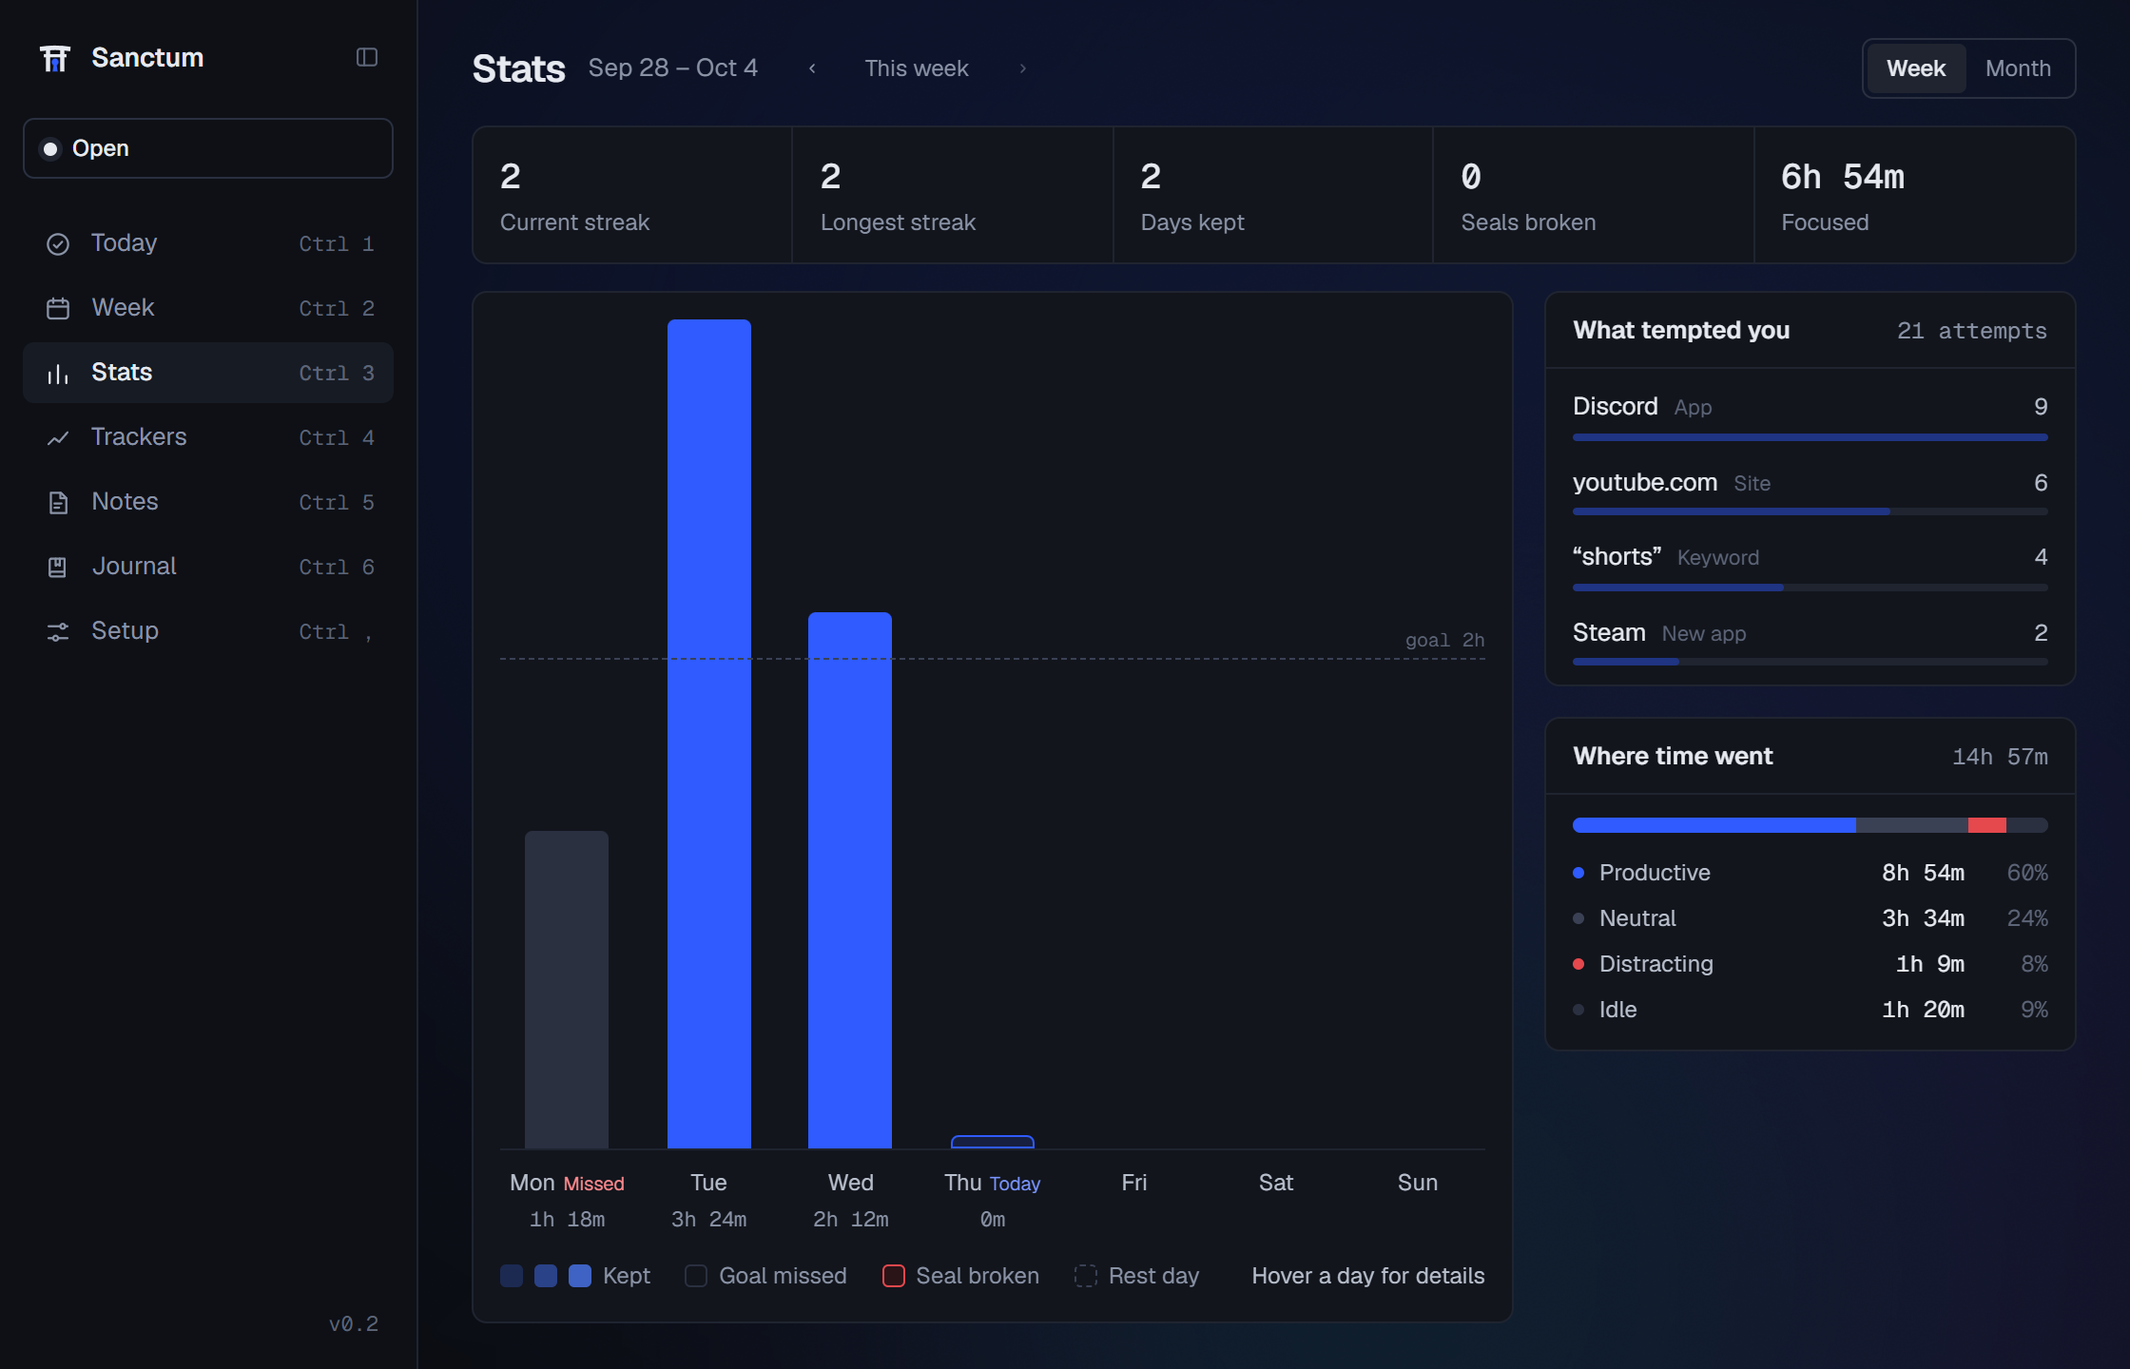
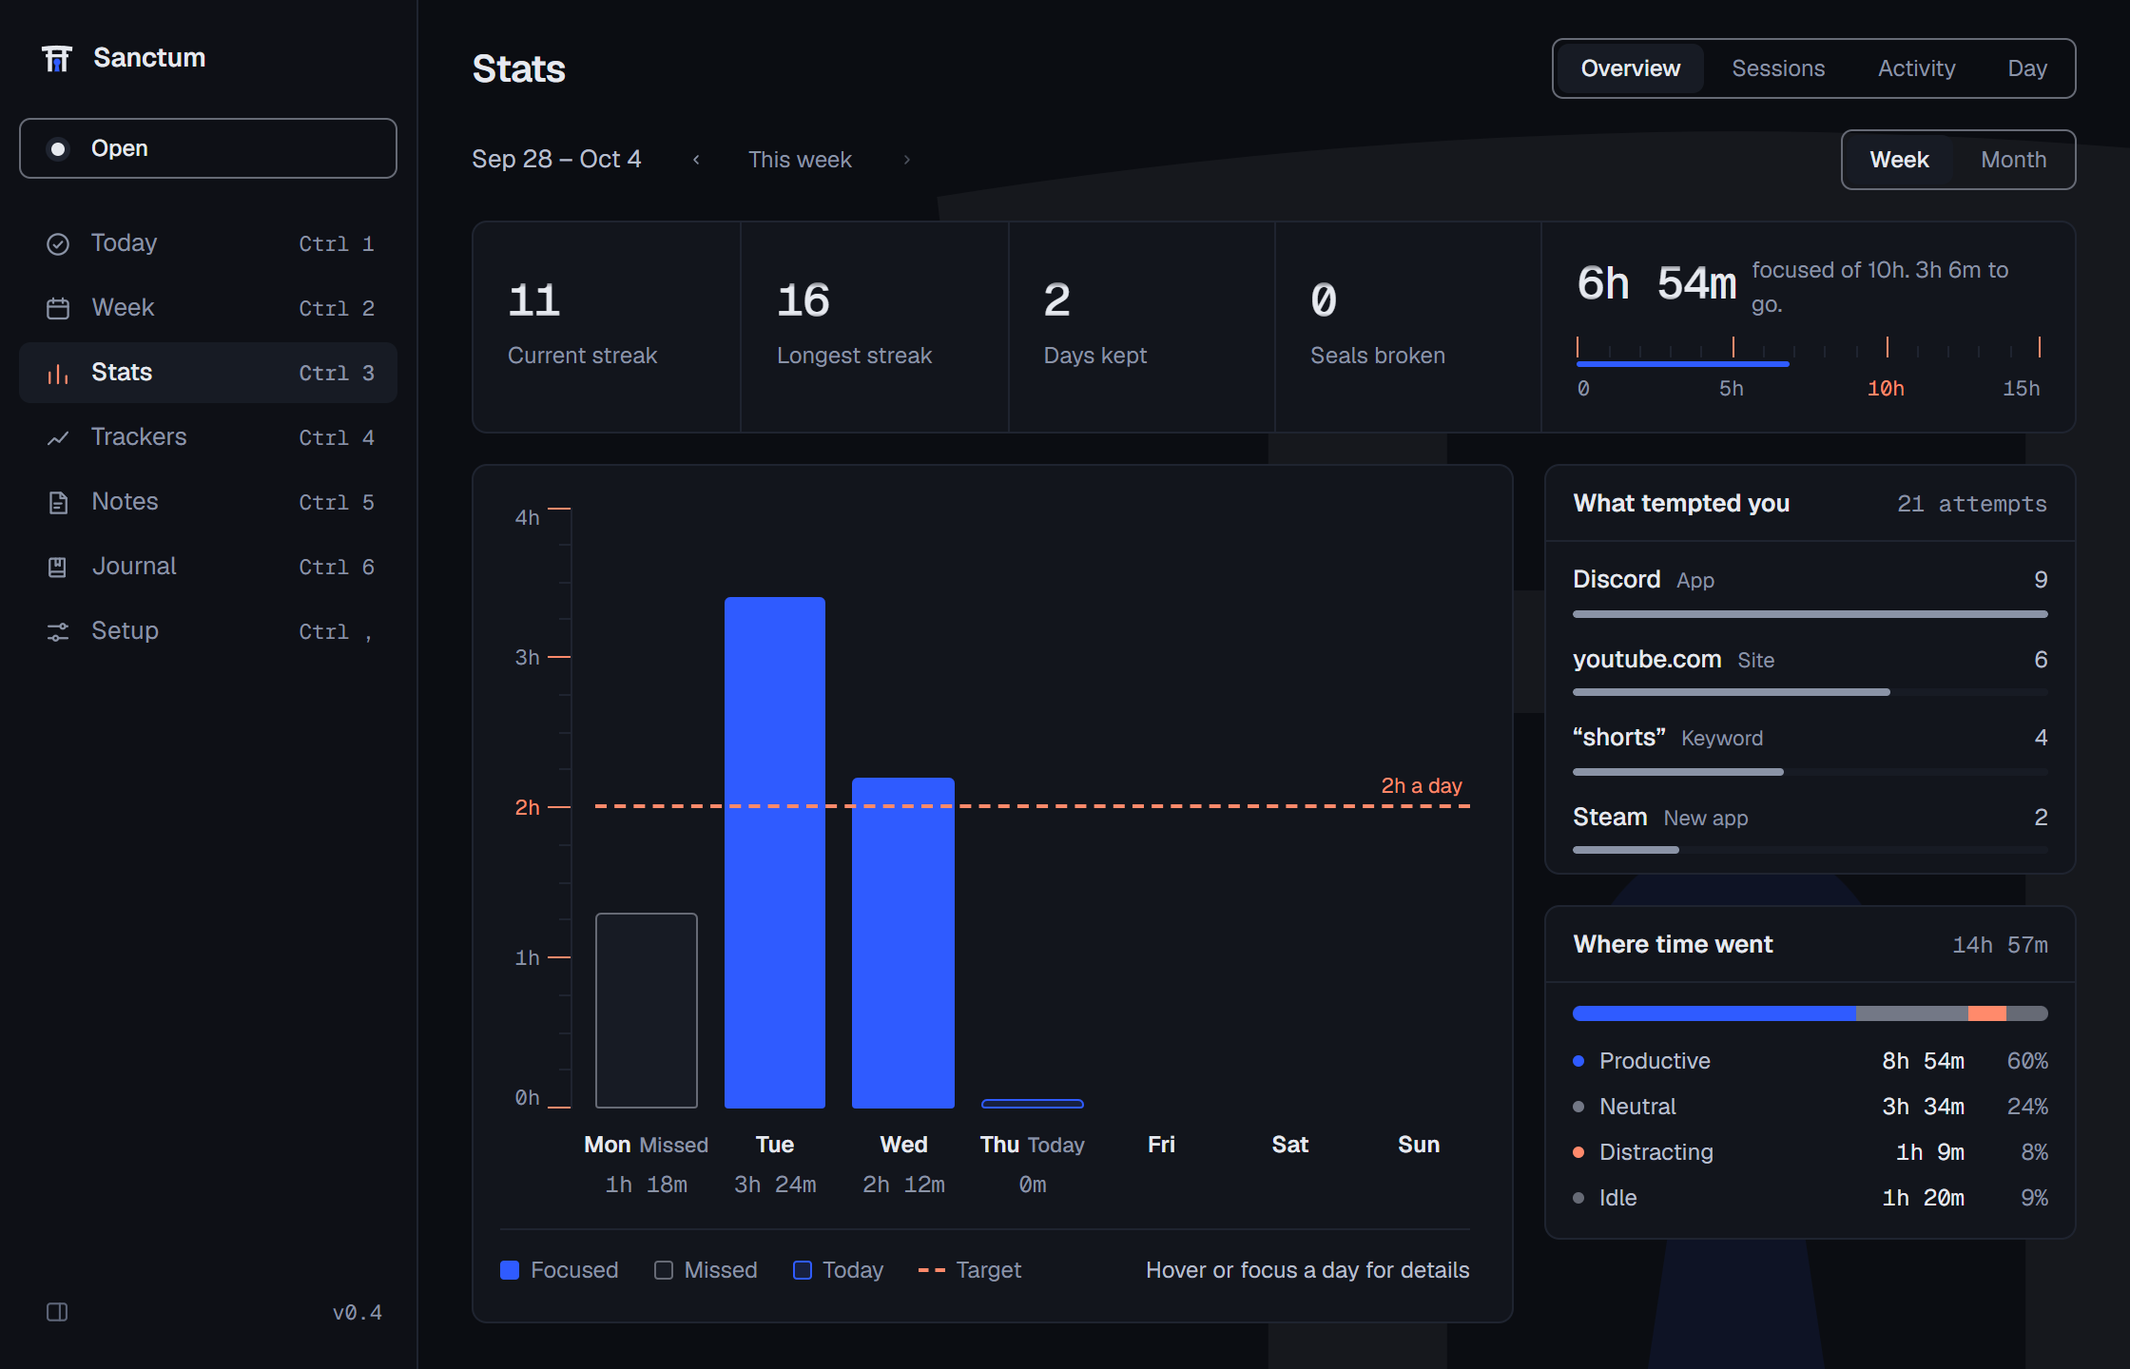
New screenshots for v0.4.0, odometer digits on the text baseline
All 17 README and site screenshots and the hero animation are regenerated from the
current app and the redesigned partner site, plus today.png, which the site's "Your day"
section now uses. README and site alt text describe the new look.

scripts/screenshots.mjs: stills under reduced motion; the hero slows GSAP as well as CSS
and waits for its timelines; fixes a held clip that opened on its last frame, a hang
after the overlay tab closed, and a blank compact shot; App Guard instead of Protection;
the overlay at its 520x330 size. make-hero.py scales the overlay from its own size.

Odometer: figures laid out inline instead of as flex items, which took their baseline
from the shifted digit strip and sat a line low, and lowered 0.2em so digits rest on the
text baseline ("Returning in 5s", "in 6h 8m", "1h 15m focused").

A partner site test that loads the docs on demand gets room under a full parallel run.

diff --git a/partner/src/site/Home.tsx b/partner/src/site/Home.tsx
@@ -9,7 +9,7 @@ import hero from "../../../docs/screenshots/sanctum.webp";
 import overlay from "../../../docs/screenshots/blocked-overlay.png";
 import extension from "../../../docs/screenshots/extension-blocked.png";
 import approve from "../../../docs/screenshots/partner-approve.png";
-import week from "../../../docs/screenshots/week.png";
+import today from "../../../docs/screenshots/today.png";
 import notes from "../../../docs/screenshots/notes.png";
 import journal from "../../../docs/screenshots/journal.png";
 import stats from "../../../docs/screenshots/stats.png";
@@ -76,7 +76,7 @@ export function Home() {
         <img
           className="shot hero-shot"
           src={hero}
-          alt="Entering focus: the seal closes, Discord is caught and sent back, and the session ends with Sanctum held."
+          alt="Entering focus: the seal line draws along the card, Discord is caught and sent back, and the session ends with Sanctum held."
           decoding="async"
         />
       </section>
@@ -100,7 +100,7 @@ export function Home() {
         title="It holds even when you don't."
         media={
           <div className="stack-shots">
-            <Shot src={overlay} alt="Discord stays sealed: the overlay a blocked app gets" />
+            <Shot src={overlay} alt="Discord stays sealed: the overlay a blocked app gets, with the seal ruler and Back to Figma" />
             <Shot src={extension} alt="youtube.com stays sealed: the extension's blocked page" className="offset" />
           </div>
         }
@@ -121,7 +121,7 @@ export function Home() {
         id="partner"
         label="Leaving early"
         title="Someone else holds the key."
-        media={<Shot src={approve} alt="The partner's approve page on a phone: the reason, time left, a PIN, Deny or Approve" className="phone" />}
+        media={<Shot src={approve} alt="The partner's approve page on a phone: the reason, time left in whole minutes, a PIN, then Deny or Approve" className="phone" />}
       >
         <p data-rise="">Getting out early is a climb, not a button.</p>
         <ol className="ladder">
@@ -149,7 +149,7 @@ export function Home() {
         </A>
       </Feature>
 
-      <Feature label="Your day" title="The plan sits next to the button." media={<Shot src={week} alt="Week: seven days of routines, tasks, and calendar events" />}>
+      <Feature label="Your day" title="The plan sits next to the button." media={<Shot src={today} alt="Today: focused minutes on the day ruler against the goal tick, the next block in the top slot, and Next up under the list" />}>
         <p data-rise="">Today measures your focused minutes on a ruler, with your goal as one tall tick.</p>
         <ul className="ticks" data-rise="">
           <li>One fixed top slot holds the next focus block or the task you linked.</li>
@@ -168,7 +168,7 @@ export function Home() {
         media={
           <div className="stack-shots">
             <Shot src={notes} alt="Notes: a block note with bullets and a checklist" />
-            <Shot src={journal} alt="Journal: today's page under its prompt" className="offset" />
+            <Shot src={journal} alt="Journal: today's page under its evening prompts" className="offset" />
           </div>
         }
       >
@@ -192,7 +192,7 @@ export function Home() {
         media={
           <div className="stack-shots">
             <Shot src={stats} alt="Stats: the week on a ruler against the daily goal, and where time went" />
-            <Shot src={trackers} alt="Trackers: weight, sleep, and mood charts" className="offset" />
+            <Shot src={trackers} alt="Trackers: weight, sleep, and mood charts on rulers" className="offset" />
           </div>
         }
       >

diff --git a/src/components/Odometer.tsx b/src/components/Odometer.tsx
@@ -14,6 +14,9 @@ const isDigit = (c: string) => c >= "0" && c <= "9";
  *  can't stretch the line it sits in. */
 const COL = "inline-block h-[1em] overflow-hidden [mask-image:linear-gradient(transparent,black_22%,black_78%,transparent)]";
 const CELL = "block h-[1em] leading-none";
+/** A letter or space beside the digits: the same 1em hidden inline-block, so its baseline is its
+ *  bottom edge too and every character in a figure sits on one line. */
+const CHAR = "inline-block h-[1em] overflow-hidden leading-none";
 
 function Column({ col, digit, direction }: { col: number; digit: number; direction: Direction }) {
   return (
@@ -34,13 +37,15 @@ function Column({ col, digit, direction }: { col: number; digit: number; directi
 function Figure({ text, direction, which }: { text: string; direction: Direction; which: "new" | "old" }) {
   let col = 0;
   return (
-    <span data-figure={which} className="inline-flex [grid-area:1/1]">
+    // Inline, not flex (2026-11-18): as flex items the columns took their baseline from the first
+    // digit of the shifted strip, and the figure sat a line below the words beside it.
+    <span data-figure={which} className="whitespace-nowrap [grid-area:1/1]">
       {Array.from(text).map((c, i) =>
         isDigit(c) ? (
           <Column key={i} col={col++} digit={Number(c)} direction={direction} />
         ) : (
-          <span key={i} className={CELL}>
-            {c === " " ? " " : c}
+          <span key={i} className={CHAR}>
+            {c ===" " ? " " : c}
           </span>
         ),
       )}
@@ -119,7 +124,7 @@ export function Odometer({
   );
 
   return (
-    <span ref={root} data-odo className={`relative inline-grid align-[-0.1em] tabular-nums leading-none ${className}`}>
+    <span ref={root} data-odo className={`relative inline-grid align-[-0.2em] tabular-nums leading-none ${className}`}>
       <span className="sr-only">{text}</span>
       <span aria-hidden="true" className="inline-grid">
         {shown.old != null ? <Figure key={`old:${shown.old}`} text={shown.old} direction={direction} which="old" /> : null}

diff --git a/src/lib/partnerSite.test.tsx b/src/lib/partnerSite.test.tsx
@@ -186,10 +186,11 @@ describe("the home page says what v0.4.0 does", () => {
     await act(async () => {
       fireEvent.click(within(bar).getByRole("link", { name: "Docs" }));
     });
-    expect(await screen.findByRole("heading", { level: 1, name: "How Sanctum works." }, { timeout: 5000 })).toBeInTheDocument();
+    // The docs page loads its guides on demand; under a full parallel run that takes a while.
+    expect(await screen.findByRole("heading", { level: 1, name: "How Sanctum works." }, { timeout: 10_000 })).toBeInTheDocument();
     expect(screen.getByRole("banner")).toBe(bar);
     expect(within(bar).getByRole("link", { name: "Docs" })).toHaveAttribute("aria-current", "page");
-  });
+  }, 20_000);
 });
 
 describe("the GitHub star button beside Download", () => {

diff --git a/scripts/make-hero.py b/scripts/make-hero.py
@@ -1,7 +1,7 @@
 """The README's hero animation from what scripts/screenshots.mjs records (docs/screenshots/frames).
 
-Open -> Enter focus -> the seal fades in -> a sealed app is caught -> Sanctum held -> back to
-Open. Animated WebP, not GIF: full color, so the gradients stay smooth instead of banding.
+Open -> Enter focus -> the seal line draws -> a sealed app is caught -> Sanctum held -> back to
+Open. Animated WebP, not GIF: full color, so the faint arches and fades stay smooth instead of banding.
 The slow-motion clips are re-timed to a steady 30 fps and every cut is a cross-fade.
 Run after `npm run screenshots` (it calls this):  python scripts/make-hero.py
 """
@@ -54,9 +54,10 @@ def main() -> None:
     build = clip("held")
 
     # The overlay a sealed app gets, over the dimmed sealed screen, as it sits on a desktop.
+    # Shot at 2x (screenshots.mjs SCALE); the main window is 1120 wide, so it scales the same.
     overlay = Image.open(FRAMES / "overlay.png").convert("RGBA")
-    scale = WIDTH / 1120
-    overlay = overlay.resize((round(480 * scale), round(290 * scale)), Image.LANCZOS)
+    scale = WIDTH / (1120 * 2)
+    overlay = overlay.resize((round(overlay.width * scale), round(overlay.height * scale)), Image.LANCZOS)
     caught = ImageEnhance.Brightness(sealed).enhance(0.55)
     caught.paste(overlay, ((caught.width - overlay.width) // 2, (caught.height - overlay.height) // 2), overlay)
 

diff --git a/README.md b/README.md
@@ -15,7 +15,7 @@ A focus app for Windows that actually holds. Pick what you're working on, enter 
 ![Windows 10 and 11](https://img.shields.io/badge/Windows-10%20%7C%2011-0B0D12)
 ![Built with Tauri](https://img.shields.io/badge/built%20with-Tauri%202-24C8DB)
 
-<img src="docs/screenshots/sanctum.webp" width="880" alt="Entering focus: the seal closes, Discord is caught and sent back, and the session ends with Sanctum held." />
+<img src="docs/screenshots/sanctum.webp" width="880" alt="Entering focus: the seal line draws along the card, Discord is caught and sent back, and the session ends with Sanctum held." />
 
 </div>
 
@@ -41,11 +41,11 @@ Pick a profile and a length and press **Enter focus**. Sanctum closes the apps y
 
 | Open | Sealed |
 |---|---|
-| <img src="docs/screenshots/home-open.png" alt="Home, Open: the focus row with profile and length wheels, Enter focus, and today's list" /> | <img src="docs/screenshots/home-sealed.jpg" alt="Home, Sealed: the cobalt gradient, time left, Compact and End early" /> |
+| <img src="docs/screenshots/home-open.png" alt="Today, Open: the day ruler under the headline, the next block in the top slot, the Profile and Length pickers, Enter focus, and today's list with Next up" /> | <img src="docs/screenshots/home-sealed.jpg" alt="Today, Sealed: the Sealed chip and the session's facts in the top slot, time left in whole minutes, End early and Compact" /> |
 
 | In event | Sanctum held |
 |---|---|
-| <img src="docs/screenshots/home-event.jpg" alt="Home, In event: a calendar meeting in coral, with Queue focus at its end" /> | <img src="docs/screenshots/held.jpg" alt="The Sanctum held page after a completed session" /> |
+| <img src="docs/screenshots/home-event.jpg" alt="Today, In event: a calendar meeting in the tinted chip with its time range, the minutes left, and Queue focus at its end" /> | <img src="docs/screenshots/held.jpg" alt="Sanctum held: the torii keyhole gate, one line of what was kept, and Add a note, Done, and Enter again" /> |
 
 When a session ends, the **Sanctum held** page shows what you kept in one line: minutes in focus and attempts blocked. Add a note on how it went if you like, then Done or Enter again. Link a session to a task first, and it offers to check it off.
 
@@ -55,29 +55,29 @@ Open something you flagged and it closes, with a note that sends you back to wha
 
 | The app overlay | The browser extension |
 |---|---|
-| <img src="docs/screenshots/blocked-overlay.png" alt="Discord stays sealed: the overlay a blocked app gets" /> | <img src="docs/screenshots/extension-blocked.png" alt="youtube.com stays sealed: the extension's blocked page" /> |
+| <img src="docs/screenshots/blocked-overlay.png" alt="Discord stays sealed: the overlay a blocked app gets, with the seal ruler, Break the seal, and Back to Figma" /> | <img src="docs/screenshots/extension-blocked.png" alt="youtube.com stays sealed: the extension's blocked page, with the time left, your own if-tempted plan, and a field to park a thought" /> |
 
 ### Out of the way while you work
 
 A compact timer floats over your work (Ctrl M), and the tray panel starts a session or checks off a task without opening the window.
 
 <p align="center">
-  <img src="docs/screenshots/compact.png" width="420" alt="The compact timer, mid-session" />
+  <img src="docs/screenshots/compact.png" width="420" alt="The compact timer, mid-session: the profile, minutes left, and the countdown" />
   &nbsp;&nbsp;
-  <img src="docs/screenshots/tray.png" width="300" alt="The tray panel: profile, length, Enter focus, and up next today" />
+  <img src="docs/screenshots/tray.png" width="300" alt="The tray panel: the profile and length pickers, Enter focus, and up next today" />
 </p>
 
 ### Plan the week
 
 Routines and one-time tasks, synced two ways with Google Calendar. Tag a block with a profile and Home suggests it when it starts. Drag items between days, or edit a whole recurring series.
 
-<img src="docs/screenshots/week.png" alt="Week: seven days of routines, tasks, and calendar events, with each day's streak mark" />
+<img src="docs/screenshots/week.png" alt="Week: seven days with each day's kept or missed mark, focused minutes, routines, and tasks" />
 
 ### See where the time went
 
 Streaks, focus against your daily goal, what tempted you most, and how your time split between productive, neutral, and distracting. Tabs go deeper: **Sessions** keeps every session for good, with what was blocked and how it ended (export it as CSV); **Activity** shows time by app and by site, and one click calls any of them productive or distracting, everywhere or in one profile; **Day** lays out a day as a timeline under its focus sessions. Turn on the weekly recap (Setup › Goals; off by default) and each Monday a short dialog shows last week as a strip of bars, one per day.
 
-<img src="docs/screenshots/stats.png" alt="Stats: streaks, daily focus against the goal, what tempted you, and where time went" />
+<img src="docs/screenshots/stats.png" alt="Stats: streaks, the week on a ruler against the goal, daily focus against the target line, what tempted you, and where time went" />
 
 ### Make it yours
 
@@ -89,25 +89,25 @@ Custom trackers (numbers, yes/no, 1 to 10, or text) with charts and scheduled ch
 
 | Trackers | Notes |
 |---|---|
-| <img src="docs/screenshots/trackers.png" alt="Trackers: weight, sleep, and mood charts" /> | <img src="docs/screenshots/notes.png" alt="Notes: a block note with bullets and a checklist, and the toolbar" /> |
+| <img src="docs/screenshots/trackers.png" alt="Trackers: weight, sleep, and mood charts on rulers, with the entries below" /> | <img src="docs/screenshots/notes.png" alt="Notes: a block note with bullets and a checklist, and the toolbar" /> |
 
-<img src="docs/screenshots/journal.png" alt="Journal: the day's strip, its focus and mood card, and a page under the evening prompts" />
+<img src="docs/screenshots/journal.png" alt="Journal: the strip of days, today's focus and mood card, and a page written under the evening prompts" />
 
 ### An accountability partner, on their phone
 
 Invite a friend. When you ask to leave early, they get an email and answer from a phone-first page with their PIN. They also hear when a seal breaks. The partner is optional, and everything else works without an account.
 
 <p align="center">
-  <img src="docs/screenshots/partner-approve.png" width="300" alt="The partner's approve page on a phone: the reason, time left, a PIN, Approve or Deny" />
+  <img src="docs/screenshots/partner-approve.png" width="300" alt="The partner's approve page on a phone: the reason, time left in whole minutes, a PIN, then Deny or Approve" />
 </p>
 
 ### Set it up once
 
 Setup is grouped into Focus, Protection, Tracking, and App. One Distractions list for apps, sites, links, and keywords; **quiet hours** that block it on a schedule; **App Guard**, a Windows service that blocks sites in every browser and reopens Sanctum if it's closed; and the details: Do Not Disturb while sealed, sounds, export, and backups.
 
-| Distractions and quiet hours | App Guard |
+| Distractions | App Guard |
 |---|---|
-| <img src="docs/screenshots/setup-distractions.png" alt="Setup, Distractions: apps, sites, and keywords, with quiet hours" /> | <img src="docs/screenshots/setup-protection.png" alt="Setup, Protection: the guard service" /> |
+| <img src="docs/screenshots/setup-distractions.png" alt="Setup, Focus, Distractions: one list of apps, sites, and keywords, with suggestions and when it blocks" /> | <img src="docs/screenshots/setup-protection.png" alt="Setup, Protection, App Guard: Sanctum reopens if closed while sealed, and sites are blocked in every browser" /> |
 
 ---
 
